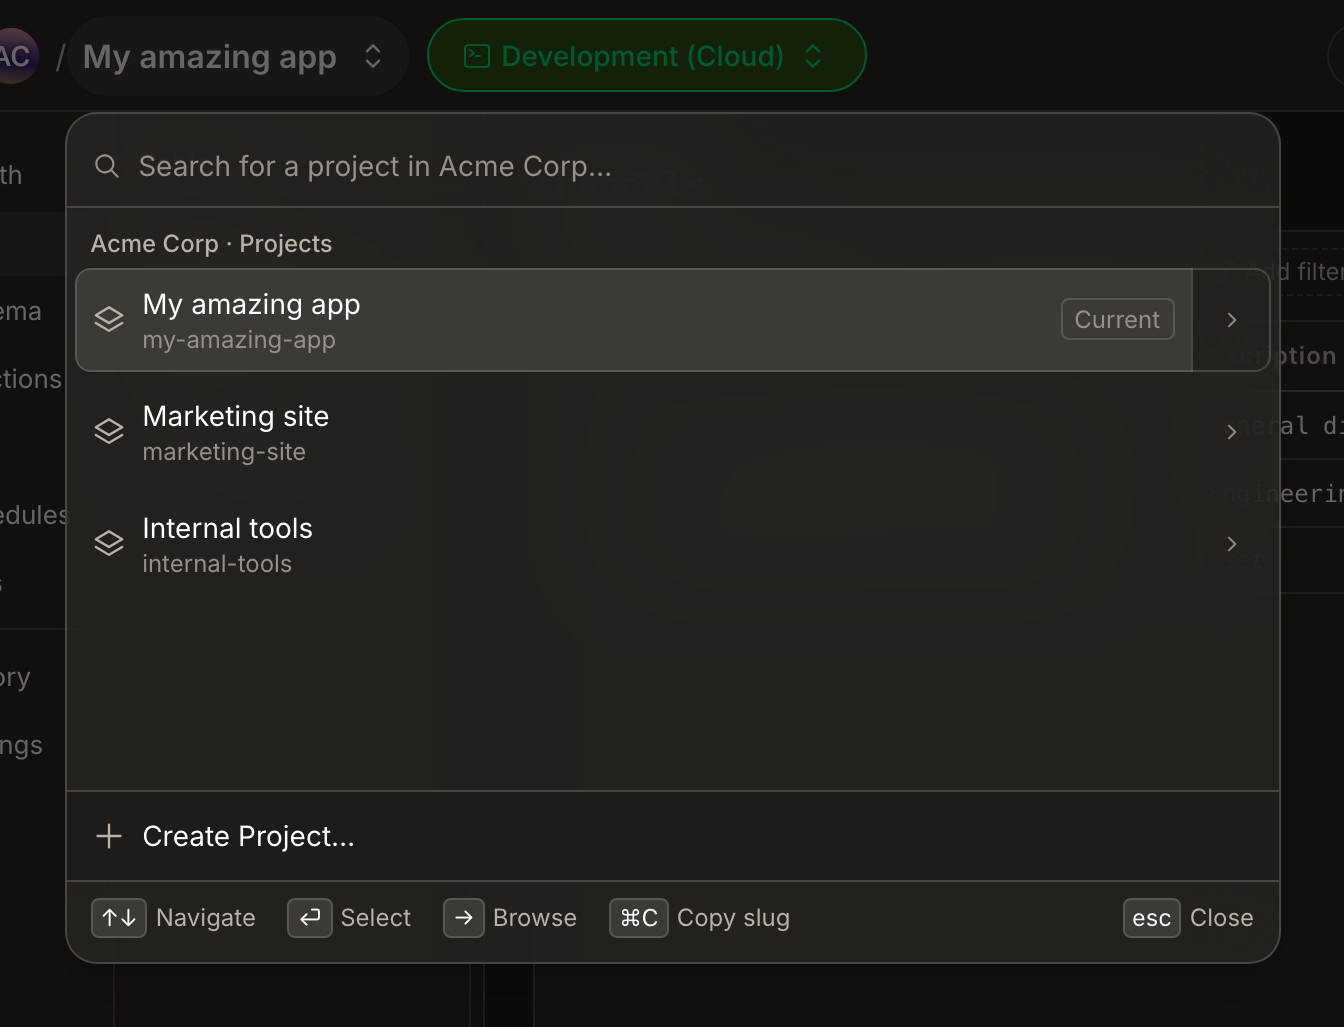
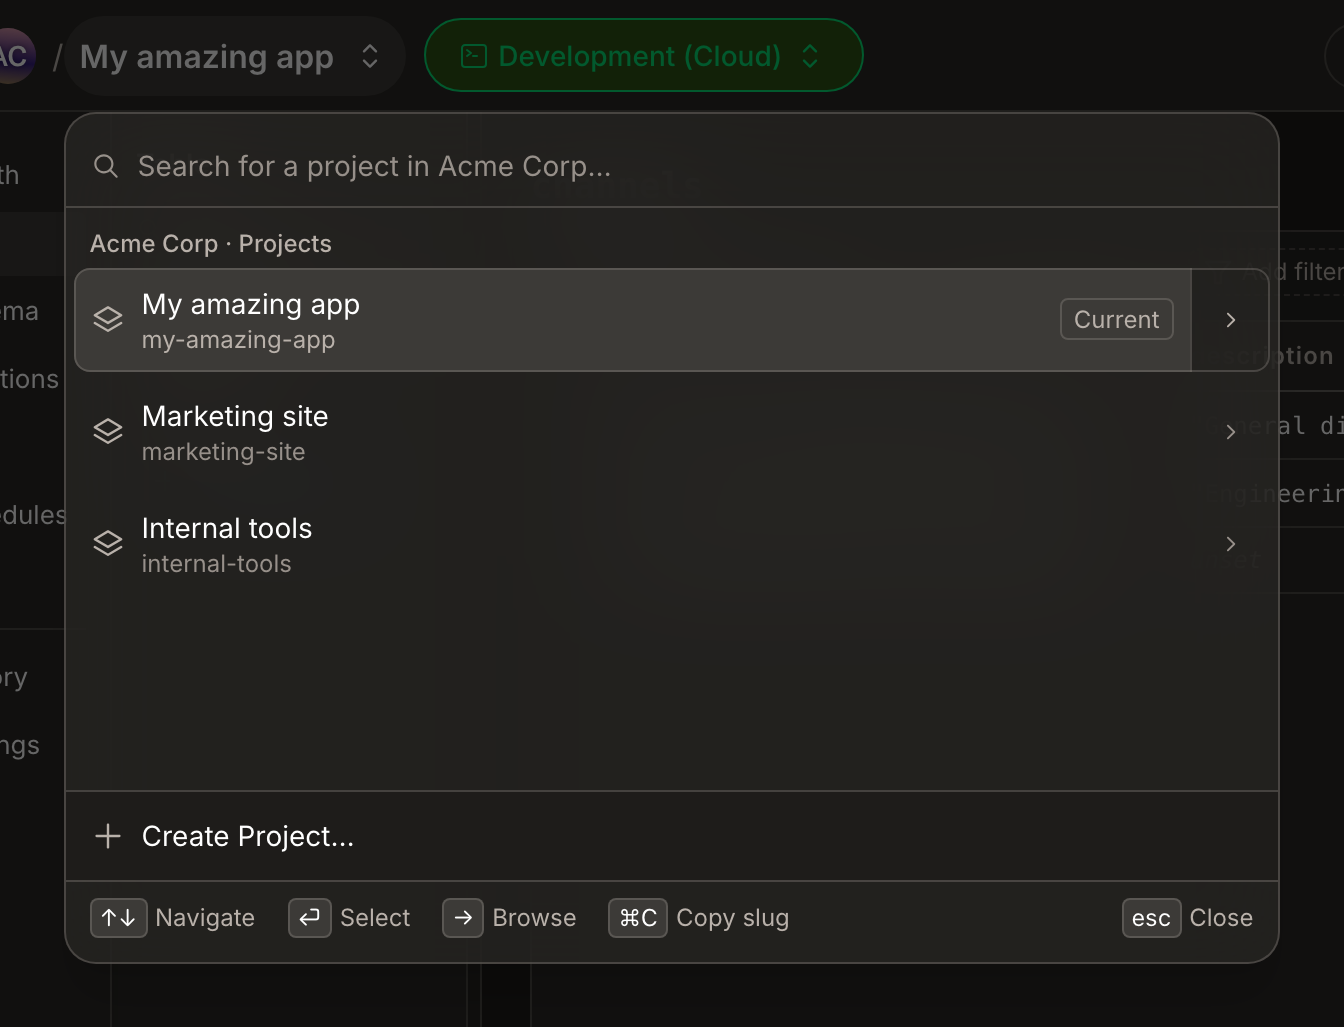
Dashboard: keep tertiary text readable on selected palette items (#61891)
In dark mode, the selected command palette item is filled with `--background-tertiary`. On it, `--content-tertiary` text (the project slug, deployment names, the "Current" badge) is 3.6:1, below the 4.5:1 minimum. On the selected item only, tertiary text now uses the secondary color (5.4:1).

| | Color | On the selected fill `#3c3a37` |
| --- | --- | --- |
| Before | `--content-tertiary` `#97908a` | ❌ 3.6:1 |
| After | `--content-secondary` `#b9b1aa` | ✅ 5.4:1 |

Lightening `--content-tertiary` itself would have needed `#aba49d`, almost the same as `--content-secondary` (1.16:1 apart), which would flatten the two everywhere else in the dashboard.

GitOrigin-RevId: c78a31c8964b9ec2c5fd0893b277fd5228a8bf54

diff --git a/npm-packages/dashboard/src/elements/styles/commandPalette.css b/npm-packages/dashboard/src/elements/styles/commandPalette.css
@@ -40,6 +40,14 @@
   @variant dark {
     --item-fill: var(--background-tertiary);
     --item-outline: var(--border-transparent);
+
+    /* Tertiary text is 3.6:1 on the selected fill. Use the secondary color
+       there instead (5.4:1), which still sits below the primary text. The
+       theme variable is resolved on the root, so it is the one to override. */
+    &[data-selected="true"],
+    &:active {
+      --color-content-tertiary: var(--content-secondary);
+    }
   }
 
   @apply rounded-lg text-sm flex items-center gap-2 p-2 cursor-pointer;
